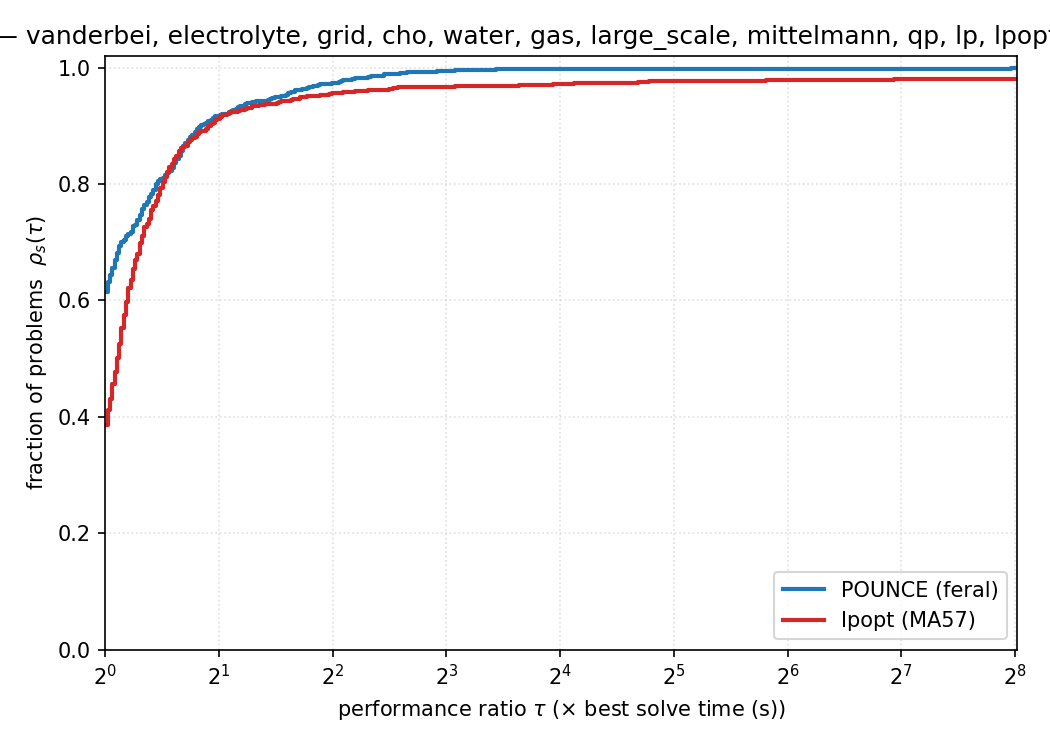
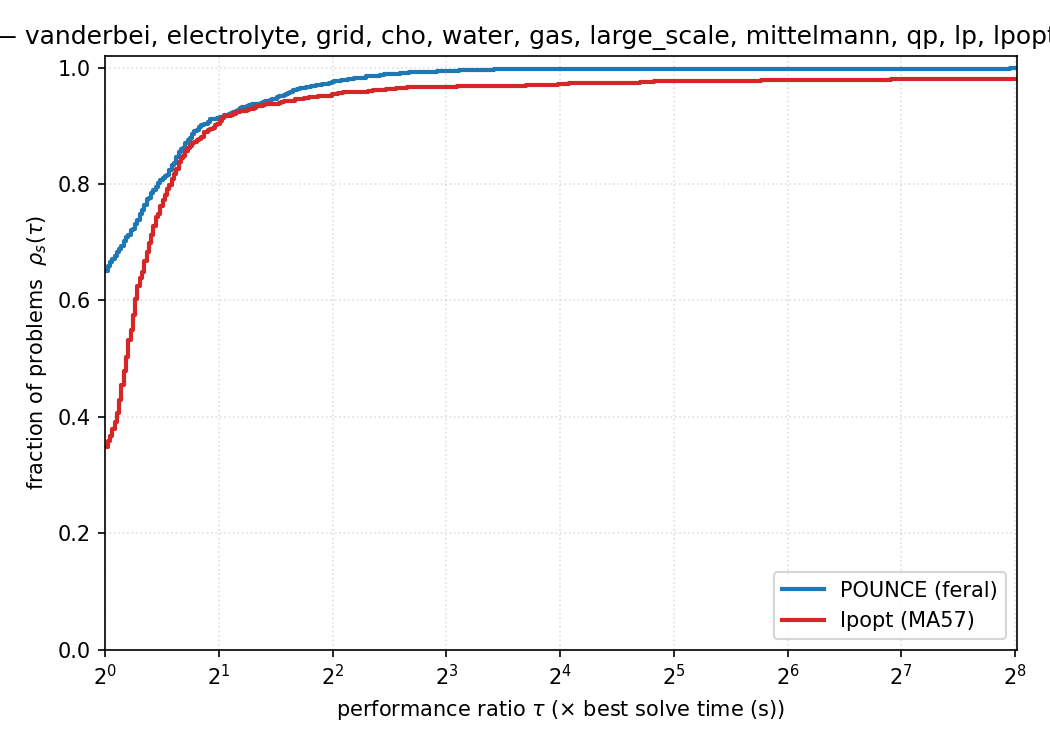
bench: refresh the full-corpus report on merged main (cho_parmest certifies again)
Full 1,326-model sweep against the merged peel-conditioning fix (#577,
ce41b5bc), rerun from scratch with `make -C benchmarks benchmark-rerun`.

Exactly one status changed across the whole corpus:

    CHO/cho_parmest: Solved To Acceptable Level -> Optimal Solution Found

That is the regression the fix was written for. Every other model in every
suite keeps its prior status; the Ipopt reference column is untouched (it is
a saved reference, regenerated only on request).

    Optimal (strict)        1287 -> 1288
    Acceptable              3    -> 2
    Ipopt-only              2    -> 1
    Both Optimal            1239 -> 1240
    Matching objectives     1177/1239 -> 1178/1240

Threading: all suites ran with OMP/OPENBLAS/VECLIB/RAYON_NUM_THREADS=1,
recorded per-suite by the runner rather than assumed, so the report carries a
verified pinning stamp instead of the "predates the stamp" fallback the
previous report had.

Provenance note: an earlier pinned sweep produced identical numbers but
stamped the wrong branch, because the report reads git HEAD at report time
and a topic branch was checked out while the sweep ran. The per-suite results
are unaffected -- the release binary was built from ce41b5bc and never
rebuilt during the sweep -- so the report was regenerated from those same
results on main. Numbers here are a merged-main artifact.

Claude-Session: https://claude.ai/code/session_01Qi7vwYkRm1kPtCGx6WJWsj

diff --git a/benchmarks/BENCHMARK_REPORT.md b/benchmarks/BENCHMARK_REPORT.md
@@ -1,12 +1,12 @@
 # POUNCE Benchmark Report
 
-Generated: 2026-08-10 21:17:48
+Generated: 2026-08-11 14:04:15
 
 ## Provenance
 
 | Component | Version / Detail |
 |-----------|------------------|
-| POUNCE | v0.10.0 (main @ 804bf084-dirty) |
+| POUNCE | v0.10.0 (main @ ce41b5bc-dirty) |
 | POUNCE linear solver | feral (default) |
 | Ipopt | Ipopt 3.14.20 (Darwin arm64), ASL(20241202) |
 | Ipopt linear solver | ma57 (via ref/Ipopt/install-ma57) |
@@ -22,22 +22,25 @@ report is generated on the same host.
 The GAMS solver-link path is exercised separately as a liveness
 smoke check (`make -C benchmarks gams-bench`) and is not aggregated here.
 
-> **Threading & timing.** These POUNCE runs carry no per-suite thread stamp — they predate it, so the
-> settings they ran under were not recorded.
-> At report time all of `OMP_NUM_THREADS`, `OPENBLAS_NUM_THREADS`, `VECLIB_MAXIMUM_THREADS`, `RAYON_NUM_THREADS` = 1. When this report is generated as the last
-> step of `make -C benchmarks benchmark` that is the sweep's own environment, but it is not proof: run
-> `benchmark-report` separately and it says nothing about the runs.
-> Treat POUNCE-vs-Ipopt time comparisons below as unverified on this axis.
+> **Threading & timing.** The POUNCE runs were pinned to a single compute thread — `OMP_NUM_THREADS`, `OPENBLAS_NUM_THREADS`, `VECLIB_MAXIMUM_THREADS`, `RAYON_NUM_THREADS` all = 1,
+> recorded by the runner for each suite, not assumed — and run sequentially, so POUNCE and Ipopt solve times
+> are directly comparable on one host.
+> POUNCE's dense linear algebra (via `faer`/`rayon`) parallelizes across cores, so its *multi-threaded*
+> wall-clock is up to ~2x faster on the larger dense problems (e.g. Mittelmann `cont*`/`qcqp*`, QP); the
+> single-threaded times reported here are therefore a controlled lower bound, not POUNCE's real-world speed,
+> and should not be compared against multi-threaded runs of this report.
+> The Ipopt reference column carries no thread record of its own; its pinning is asserted by the procedure that
+> generated it, not verified here.
 
 ## Executive Summary
 
 | Metric | POUNCE | Ipopt |
 |--------|--------|-------|
-| Optimal (strict) | **1287/1326** (97.1%) | **1241/1326** (93.6%) |
-| Acceptable (informational, *not* counted as solved) | 3 | 24 |
-| Solved exclusively (strict Optimal) | 48 | 2 |
-| Both Optimal | 1239 | |
-| Matching objectives (< 0.01%) | 1177/1239 | |
+| Optimal (strict) | **1288/1326** (97.1%) | **1241/1326** (93.6%) |
+| Acceptable (informational, *not* counted as solved) | 2 | 24 |
+| Solved exclusively (strict Optimal) | 48 | 1 |
+| Both Optimal | 1240 | |
+| Matching objectives (< 0.01%) | 1178/1240 | |
 
 > **Note:** All headline counts use strict Optimal status only. `Acceptable`
 > means the iterate met relaxed tolerances but not the requested tolerance —
@@ -74,7 +77,7 @@ _1326 problems; solvers: pounce, ipopt._
 | Vanderbei | 733 | 702 (95.8%) | 683 (93.2%) | 19 | 0 | 683 | 659/683 |
 | Electrolyte | 13 | 13 (100.0%) | 13 (100.0%) | 0 | 0 | 13 | 13/13 |
 | Grid | 4 | 4 (100.0%) | 4 (100.0%) | 0 | 0 | 4 | 4/4 |
-| CHO | 1 | 0 (0.0%) | 1 (100.0%) | 0 | 1 | 0 | 0/1 |
+| CHO | 1 | 1 (100.0%) | 1 (100.0%) | 0 | 0 | 1 | 1/1 |
 | Water | 6 | 6 (100.0%) | 6 (100.0%) | 0 | 0 | 6 | 2/6 |
 | Gas | 4 | 3 (75.0%) | 3 (75.0%) | 0 | 0 | 3 | 3/3 |
 | LargeScale | 5 | 5 (100.0%) | 5 (100.0%) | 0 | 0 | 5 | 5/5 |
@@ -136,16 +139,16 @@ On 683 commonly-solved problems:
 
 | Metric | POUNCE | Ipopt |
 |--------|--------|-------|
-| Median time | 35.4ms | 44.3ms |
-| Total time | 304.63s | 235.00s |
+| Median time | 33.0ms | 44.3ms |
+| Total time | 299.31s | 235.00s |
 | Mean iterations | 47.2 | 47.2 |
 | Median iterations | 15 | 16 |
 
 - **Geometric mean speedup**: 1.0x
 - **Median speedup**: 1.1x
-- POUNCE faster: 461/683 (67%)
+- POUNCE faster: 505/683 (74%)
 - POUNCE 10x+ faster: 1/683
-- Ipopt faster: 222/683
+- Ipopt faster: 178/683
 
 ## Electrolyte Suite — Performance
 
@@ -153,13 +156,13 @@ On 13 commonly-solved problems:
 
 | Metric | POUNCE | Ipopt |
 |--------|--------|-------|
-| Median time | 30.8ms | 37.6ms |
-| Total time | 404.5ms | 503.3ms |
+| Median time | 29.1ms | 37.6ms |
+| Total time | 383.4ms | 503.3ms |
 | Mean iterations | 14.8 | 12.2 |
 | Median iterations | 10 | 10 |
 
-- **Geometric mean speedup**: 1.2x
-- **Median speedup**: 1.2x
+- **Geometric mean speedup**: 1.3x
+- **Median speedup**: 1.3x
 - POUNCE faster: 13/13 (100%)
 - POUNCE 10x+ faster: 0/13
 - Ipopt faster: 0/13
@@ -170,16 +173,33 @@ On 4 commonly-solved problems:
 
 | Metric | POUNCE | Ipopt |
 |--------|--------|-------|
-| Median time | 34.4ms | 41.9ms |
-| Total time | 137.4ms | 157.2ms |
+| Median time | 33.5ms | 41.9ms |
+| Total time | 131.0ms | 157.2ms |
 | Mean iterations | 15.5 | 15.5 |
 | Median iterations | 17 | 17 |
 
-- **Geometric mean speedup**: 1.1x
-- **Median speedup**: 1.1x
+- **Geometric mean speedup**: 1.2x
+- **Median speedup**: 1.2x
 - POUNCE faster: 4/4 (100%)
 - POUNCE 10x+ faster: 0/4
 - Ipopt faster: 0/4
+
+## CHO Suite — Performance
+
+On 1 commonly-solved problems:
+
+| Metric | POUNCE | Ipopt |
+|--------|--------|-------|
+| Median time | 3.94s | 1.76s |
+| Total time | 3.94s | 1.76s |
+| Mean iterations | 34.0 | 33.0 |
+| Median iterations | 34 | 33 |
+
+- **Geometric mean speedup**: 0.4x
+- **Median speedup**: 0.4x
+- POUNCE faster: 0/1 (0%)
+- POUNCE 10x+ faster: 0/1
+- Ipopt faster: 1/1
 
 ## Water Suite — Performance
 
@@ -187,12 +207,12 @@ On 6 commonly-solved problems:
 
 | Metric | POUNCE | Ipopt |
 |--------|--------|-------|
-| Median time | 116.2ms | 122.5ms |
-| Total time | 657.7ms | 696.0ms |
+| Median time | 115.8ms | 122.5ms |
+| Total time | 649.8ms | 696.0ms |
 | Mean iterations | 191.8 | 205.2 |
 | Median iterations | 191 | 209 |
 
-- **Geometric mean speedup**: 1.0x
+- **Geometric mean speedup**: 1.1x
 - **Median speedup**: 1.2x
 - POUNCE faster: 4/6 (67%)
 - POUNCE 10x+ faster: 0/6
@@ -204,12 +224,12 @@ On 3 commonly-solved problems:
 
 | Metric | POUNCE | Ipopt |
 |--------|--------|-------|
-| Median time | 90.6ms | 113.3ms |
-| Total time | 292.1ms | 374.0ms |
+| Median time | 85.7ms | 113.3ms |
+| Total time | 284.2ms | 374.0ms |
 | Mean iterations | 40.0 | 39.7 |
 | Median iterations | 20 | 20 |
 
-- **Geometric mean speedup**: 1.3x
+- **Geometric mean speedup**: 1.4x
 - **Median speedup**: 1.3x
 - POUNCE faster: 3/3 (100%)
 - POUNCE 10x+ faster: 0/3
@@ -222,12 +242,12 @@ On 5 commonly-solved problems:
 | Metric | POUNCE | Ipopt |
 |--------|--------|-------|
 | Median time | 2.58s | 573.2ms |
-| Total time | 12.59s | 9.43s |
+| Total time | 12.39s | 9.43s |
 | Mean iterations | 309.6 | 305.6 |
 | Median iterations | 5 | 2 |
 
-- **Geometric mean speedup**: 0.5x
-- **Median speedup**: 0.5x
+- **Geometric mean speedup**: 0.6x
+- **Median speedup**: 0.6x
 - POUNCE faster: 2/5 (40%)
 - POUNCE 10x+ faster: 0/5
 - Ipopt faster: 3/5
@@ -238,8 +258,8 @@ On 40 commonly-solved problems:
 
 | Metric | POUNCE | Ipopt |
 |--------|--------|-------|
-| Median time | 12.40s | 6.88s |
-| Total time | 1276.26s | 1488.30s |
+| Median time | 12.18s | 6.88s |
+| Total time | 1263.12s | 1488.30s |
 | Mean iterations | 113.7 | 110.7 |
 | Median iterations | 55 | 55 |
 
@@ -255,16 +275,16 @@ On 133 commonly-solved problems:
 
 | Metric | POUNCE | Ipopt |
 |--------|--------|-------|
-| Median time | 85.4ms | 92.9ms |
-| Total time | 98.88s | 172.97s |
+| Median time | 82.9ms | 92.9ms |
+| Total time | 99.16s | 172.97s |
 | Mean iterations | 18.4 | 75.6 |
 | Median iterations | 18 | 24 |
 
 - **Geometric mean speedup**: 1.1x
 - **Median speedup**: 1.1x
-- POUNCE faster: 81/133 (61%)
+- POUNCE faster: 82/133 (62%)
 - POUNCE 10x+ faster: 2/133
-- Ipopt faster: 52/133
+- Ipopt faster: 51/133
 
 ## LP Suite — Performance
 
@@ -272,16 +292,16 @@ On 352 commonly-solved problems:
 
 | Metric | POUNCE | Ipopt |
 |--------|--------|-------|
-| Median time | 148.0ms | 157.8ms |
-| Total time | 521.82s | 422.20s |
+| Median time | 147.1ms | 157.8ms |
+| Total time | 518.77s | 422.20s |
 | Mean iterations | 25.0 | 107.3 |
 | Median iterations | 23 | 56 |
 
 - **Geometric mean speedup**: 1.1x
 - **Median speedup**: 1.0x
-- POUNCE faster: 175/352 (50%)
+- POUNCE faster: 177/352 (50%)
 - POUNCE 10x+ faster: 10/352
-- Ipopt faster: 177/352
+- Ipopt faster: 175/352
 
 ## Failure Analysis
 
@@ -301,12 +321,6 @@ On 352 commonly-solved problems:
 | Search_Direction_Becomes_Too_Small | 0 | 1 |
 | Solver_Error | 2 | 2 |
 | Unknown_Error | 0 | 7 |
-
-### CHO Suite
-
-| Failure Mode | POUNCE | Ipopt |
-|-------------|--------|-------|
-| Acceptable | 1 | 0 |
 
 ### Gas Suite
 
@@ -351,7 +365,6 @@ On 352 commonly-solved problems:
 | Problem | Suite | n | m | POUNCE status | Ipopt obj |
 |---------|-------|---|---|--------------|-----------|
 | WM_CFy | Mittelmann | 8709 | 12850 | Maximum_CpuTime_Exceeded | 1.221824e+00 |
-| cho_parmest | CHO | 21672 | 21660 | Acceptable | 6.767287e+04 |
 
 ## Wins (POUNCE Optimal, Ipopt not Optimal) — 48 problems
 
@@ -406,13 +419,12 @@ On 352 commonly-solved problems:
 | steenbrg | Vanderbei | 540 | 126 | Acceptable | 2.747128e+04 |
 | supportcase10 | LPopt | 14630 | 165684 | Maximum_CpuTime_Exceeded | 3.383924e+00 |
 
-## Acceptable (not Optimal) — 3 problems
+## Acceptable (not Optimal) — 2 problems
 
 These problems converged within relaxed tolerances but not strict tolerances.
 
 | Problem | Suite | n | m | Ipopt status | POUNCE obj | Ipopt obj |
 |---------|-------|---|---|-------------|------------|-----------|
-| cho_parmest | CHO | 21672 | 21660 | Optimal | 6.767287e+04 | 6.767287e+04 |
 | csfi2 | Vanderbei | 5 | 4 | Acceptable | 5.501760e+01 | 5.501760e+01 |
 | dallasl | Vanderbei | 906 | 667 | Invalid_Number_Detected | -2.026041e+05 | N/A |
 
@@ -424,12 +436,12 @@ These suites currently run POUNCE only — no Ipopt-side comparison is captured 
 
 | Problem | n | m | Status | Objective | Iters | Time |
 |---------|---|---|--------|-----------|-------|------|
-| ex10 | 17,680 | 69,608 | Maximum_CpuTime_Exceeded | N/A | 0 | 300.10s |
-| irish-electricity | 61,728 | 104,259 | Maximum_CpuTime_Exceeded | N/A | 387 | 300.07s |
-| qap15 | 22,275 | 6,330 | Optimal | 1.0410e+03 | 26 | 44.91s |
-| supportcase10 | 14,630 | 165,684 | Optimal | 3.3839e+00 | 32 | 162.10s |
+| ex10 | 17,680 | 69,608 | Maximum_CpuTime_Exceeded | N/A | 0 | 300.09s |
+| irish-electricity | 61,728 | 104,259 | Maximum_CpuTime_Exceeded | N/A | 396 | 300.07s |
+| qap15 | 22,275 | 6,330 | Optimal | 1.0410e+03 | 26 | 44.67s |
+| supportcase10 | 14,630 | 165,684 | Optimal | 3.3839e+00 | 32 | 160.70s |
 
-POUNCE: **2/4 Optimal** in 807.17s total
+POUNCE: **2/4 Optimal** in 805.53s total
 
 ## Dedicated Convex Solver vs. General NLP (head-to-head)
 
@@ -454,16 +466,16 @@ On 351 problems solved by both arms:
 
 | Metric | pounce-convex | pounce-nlp |
 |--------|---------------|------------|
-| Median time | 151.4ms | 203.3ms |
-| Total time | 163.55s | 630.65s |
+| Median time | 147.8ms | 193.0ms |
+| Total time | 156.73s | 620.09s |
 | Mean iterations | 25.1 | 116.3 |
 | Median iterations | 23 | 56 |
 
 - **Geometric-mean speedup (convex over nlp)**: 1.4x
-- **Median speedup**: 1.1x
-- pounce-convex faster: 238/351 (68%)
+- **Median speedup**: 1.2x
+- pounce-convex faster: 248/351 (71%)
 - pounce-convex 10x+ faster: 10/351
-- pounce-nlp faster: 113/351
+- pounce-nlp faster: 103/351
 
 ### QP — convex vs NLP
 
@@ -478,16 +490,16 @@ On 132 problems solved by both arms:
 
 | Metric | pounce-convex | pounce-nlp |
 |--------|---------------|------------|
-| Median time | 85.8ms | 110.5ms |
-| Total time | 100.02s | 192.51s |
+| Median time | 82.9ms | 104.1ms |
+| Total time | 98.54s | 188.14s |
 | Mean iterations | 18.4 | 76.2 |
 | Median iterations | 18 | 24 |
 
 - **Geometric-mean speedup (convex over nlp)**: 1.1x
 - **Median speedup**: 1.0x
-- pounce-convex faster: 67/132 (51%)
+- pounce-convex faster: 72/132 (55%)
 - pounce-convex 10x+ faster: 1/132
-- pounce-nlp faster: 65/132
+- pounce-nlp faster: 60/132
 
 ---
 *Generated by benchmark_report.py*
